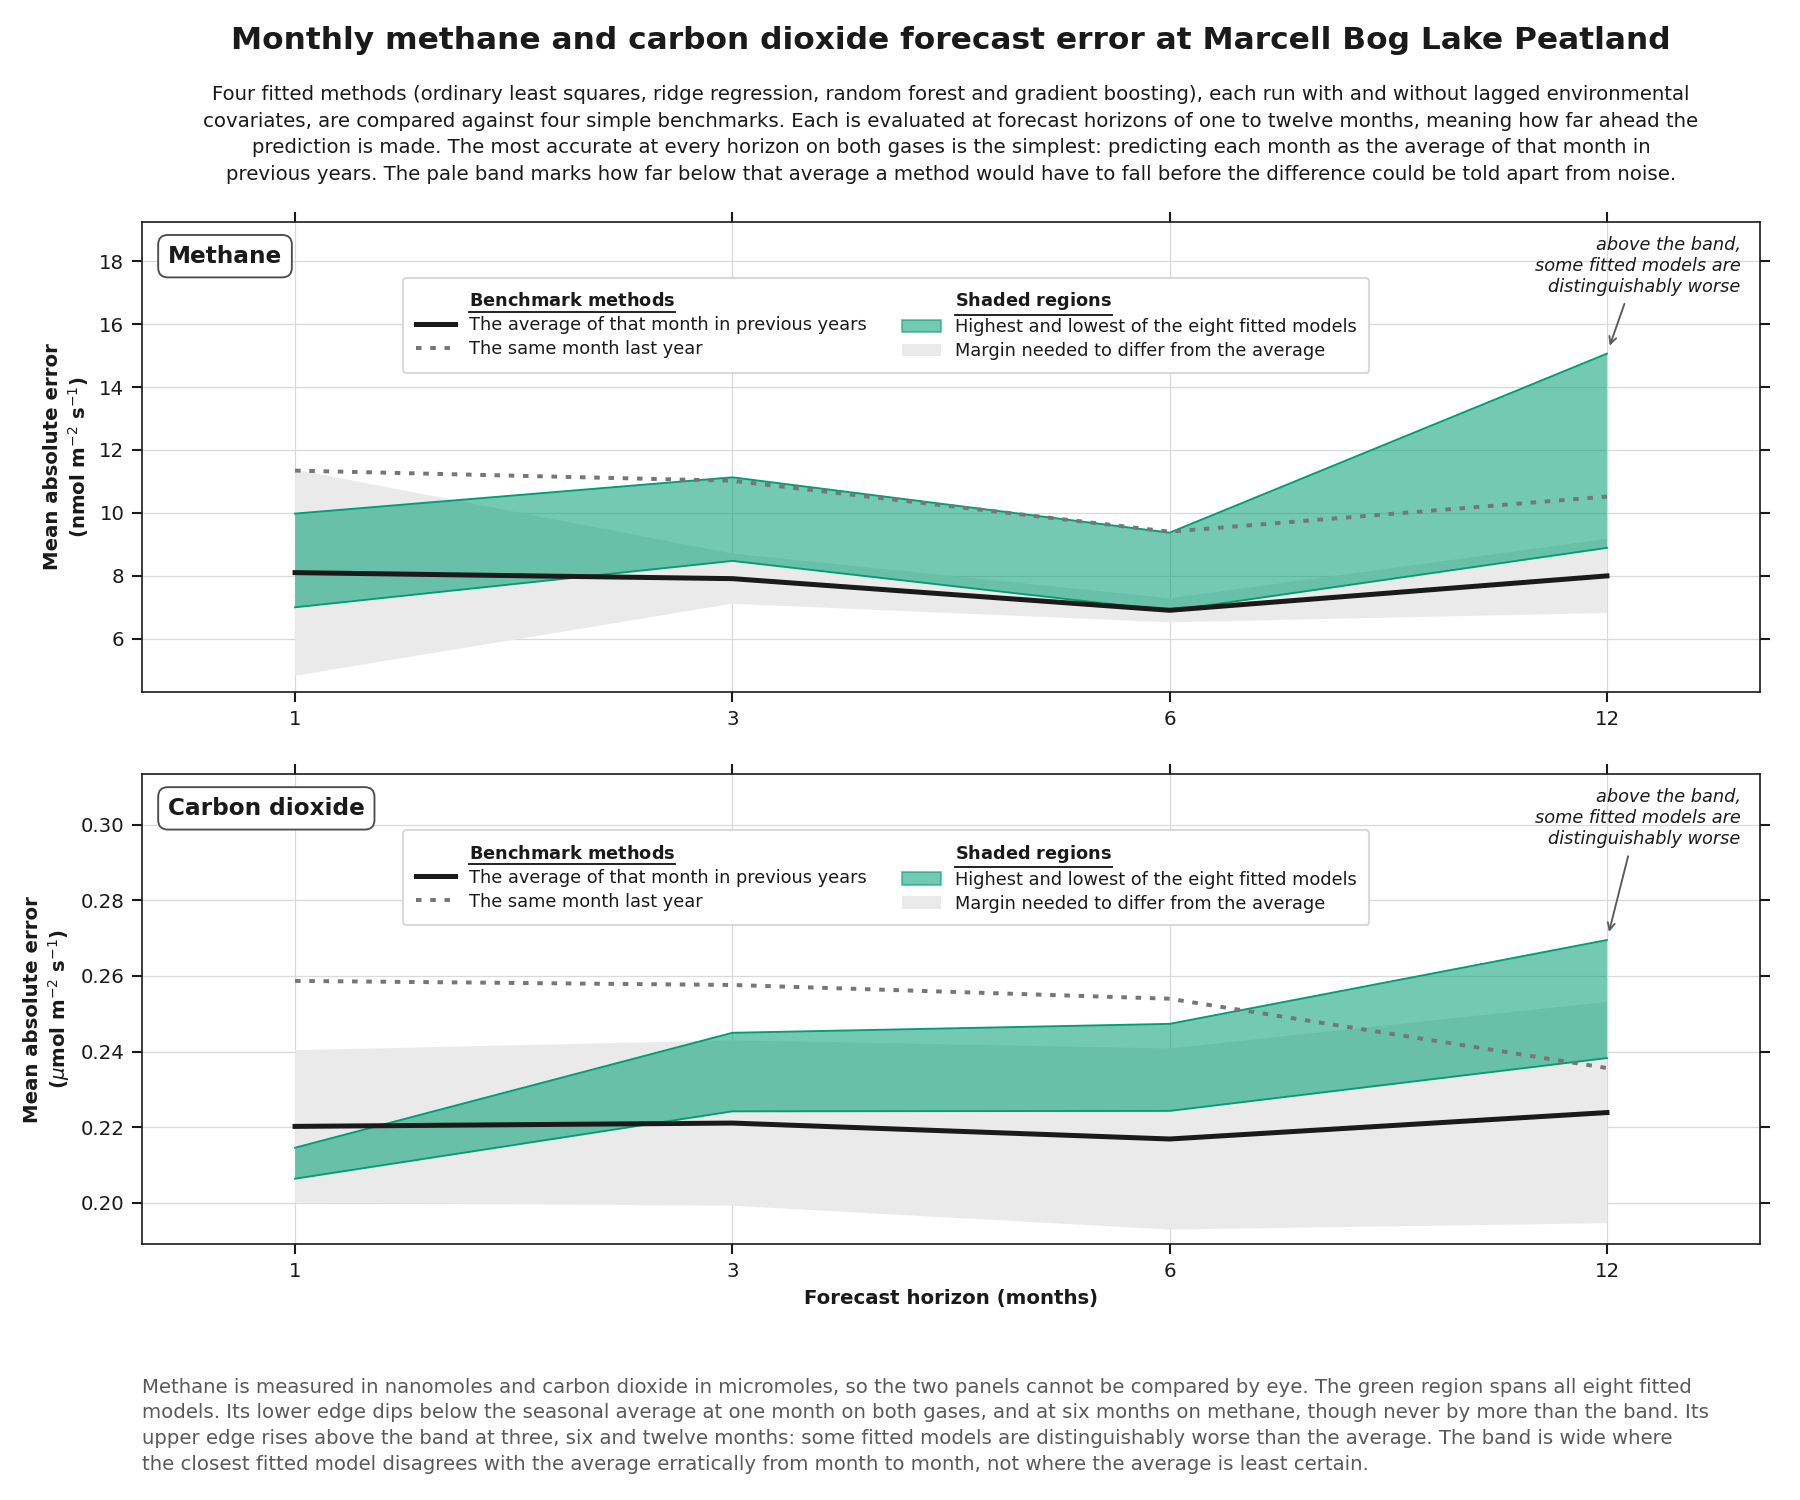
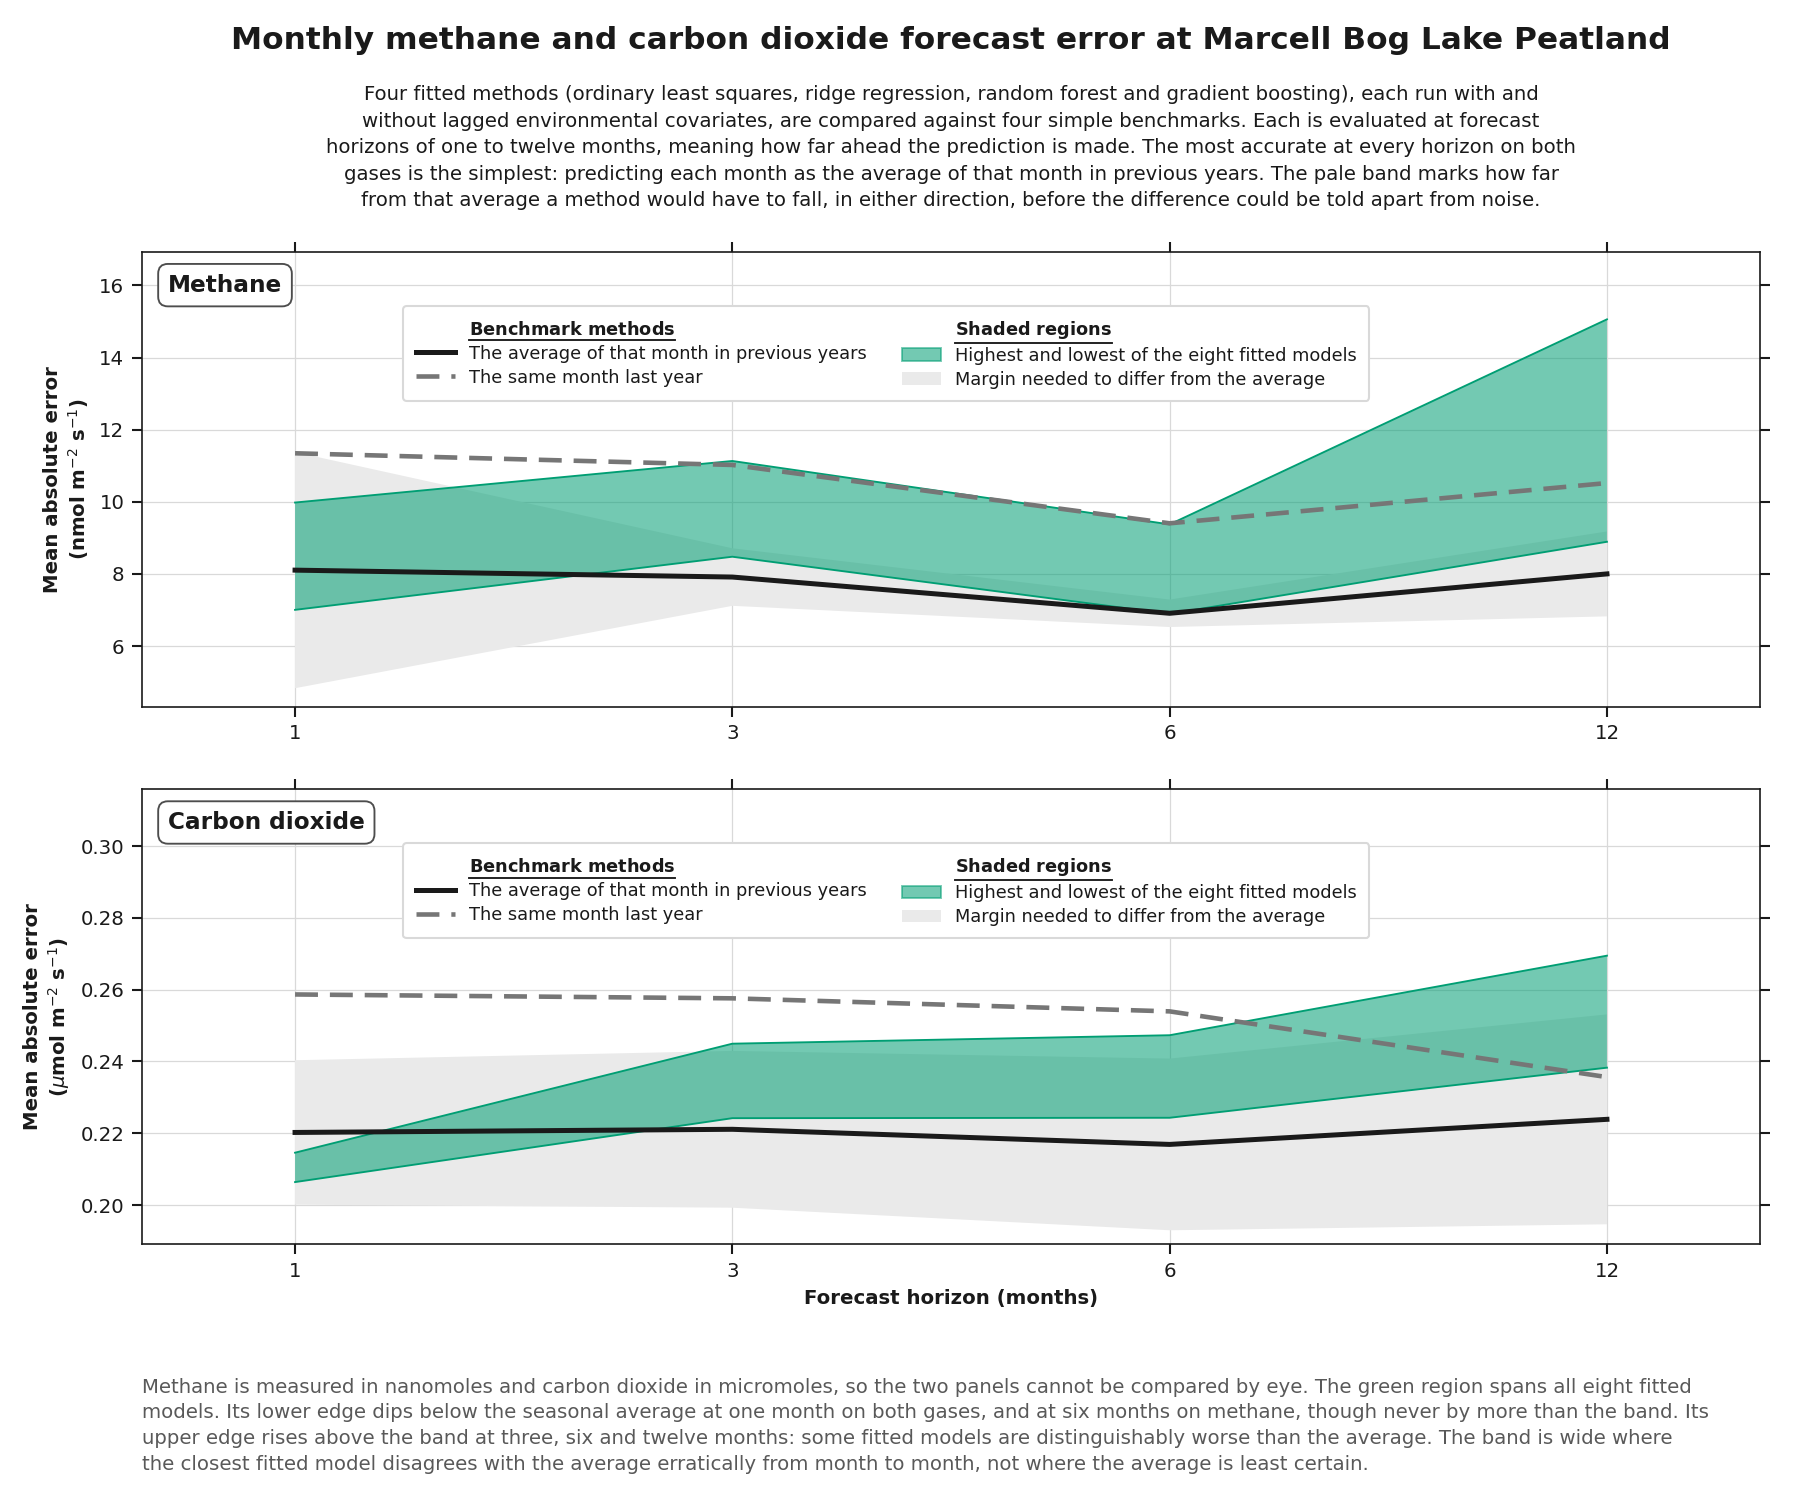
Cut the repeated note, and let the dashed benchmark read over the fill
The note in each panel corner said what the description says in nearly the same
words, and its arrow could only point at one horizon of a finding that holds at
three, so a reader met it twice above the axis and once below. Cutting it also
removes the second requirement from _raise_top_until_furniture_clears, which now
only has to keep the legend clear of the series beneath it.

The dashed benchmark was already drawn above the fill, so order was never the
problem: at #767676 it holds 2.33:1 against the fill, under the 3:1 a graphical
object needs, and a dotted line at 1.4 on 2.2 lays down very little ink to hold
it with. Longer dashes and a little more weight, with the fill's alpha left at
the measured 0.45 that keeps the subject 0.143 darker than the apparatus.

The subtitle said the band marks how far below the average a method must fall.
It is drawn two-sided, and the description uses the upper edge, so a reader told
it was a floor could not make sense of a ceiling.

Every benchmark the study scores now reaches the panel's table, so the table can
answer why two are drawn. Carrying three of four was neither the drawn set nor
the complete one. The test fixture carries all four for the same reason.

The palette note recorded green as two scoped meanings across three figures. It
is four across five: the residual check and the prediction error figure were
added later, and the second is the loosest in the set, where green means the
[…]

diff --git a/src/study/figures.py b/src/study/figures.py
@@ -336,13 +336,25 @@ def reconstruction_series(annual: pd.DataFrame) -> Figure:
 #: each one carries: climatology is the result, so it is heaviest.
 BENCHMARK_STYLE = {
     "climatology": {"color": "#1A1A1A", "linestyle": "-", "linewidth": 2.4},
-    "seasonal naive": {"color": "#767676", "linestyle": (0, (1.4, 2.2)), "linewidth": 1.9},
+    # Longer dashes and a little more weight, because this line crosses the green
+    # fill and at #767676 it holds only 2.33:1 against it, under the 3:1 a
+    # graphical object needs. It already draws above the fill, so order was not
+    # the problem; the fill's alpha stays at the measured 0.45, which is what
+    # keeps the subject 0.143 darker than the apparatus behind it. Ink is the
+    # only lever left, and a dotted line at 1.4 on 2.2 lays down very little.
+    "seasonal naive": {"color": "#767676", "linestyle": (0, (5.0, 2.6)), "linewidth": 2.2},
 }
 
 #: Benchmarks the panel table carries. Drawing is a separate question: the table
 #: keeps every benchmark the study scored, so the subtitle can quote one the
 #: panel does not draw and a test can check that it quotes it correctly.
-PANEL_BENCHMARKS = ("climatology", "seasonal naive", "naive")
+#: Every benchmark the study scores reaches the panel's table, so the table can
+#: answer why two of them are drawn and two are not. `BENCHMARK_STYLE` is the
+#: drawn subset. Carrying three of the four was the older arrangement: `naive`
+#: reached the table and nothing drew it, and `seasonal naive with drift` never
+#: reached it at all, so neither the drawing nor the table was the complete set.
+PANEL_BENCHMARKS = ("climatology", "seasonal naive", "naive",
+                    "seasonal naive with drift")
 
 #: Carrying last month's value forward is scored and reported but not drawn. It
 #: is not a contender, and at twelve months it coincides with the seasonal
@@ -413,9 +425,9 @@ FORECAST_TEXT = ps.FigureText(
         "Each is evaluated at forecast horizons of one to twelve months, meaning "
         "how far ahead the prediction is made. The most accurate at every horizon "
         "on both gases is the simplest: predicting each month as the average of "
-        "that month in previous years. The pale band marks how far below that "
-        "average a method would have to fall before the difference could be told "
-        "apart from noise."
+        "that month in previous years. The pale band marks how far from that "
+        "average a method would have to fall, in either direction, before the "
+        "difference could be told apart from noise."
     ),
     description=(
         "Methane is measured in nanomoles and carbon dioxide in micromoles, so "
@@ -510,33 +522,14 @@ def forecast_error_by_horizon(panels: dict[str, pd.DataFrame]) -> Figure:
         _forecast_legend(ax)
         axes.append(ax)
 
-    # The result in the other direction, on both panels because it holds on both.
-    # Anchored at twelve months, where the envelope's upper edge is highest, and
-    # set into the corner beyond the legend's right edge. Wrapped narrow so it
-    # fits the strip the legend leaves rather than reaching back across it.
-    for ax, (key, _, _) in zip(axes, GAS_PANEL):
-        table = panels[key]
-        last = len(table) - 1
-        ps.annotate(
-            ax,
-            "above the band,\nsome fitted models are\ndistinguishably worse",
-            xy=(float(last), float(table["fitted_high"].iloc[last])),
-            xytext=(0.988, 0.97), textcoords="axes fraction", ha="right", va="top",
-        )
-
-    # Both pieces of furniture are in place, so the axis can be grown to fit them.
+    # No note on the panel. The description says the same thing in nearly the
+    # same words, and an arrow can only point at one horizon of a finding that
+    # holds at three, so a reader met it twice above the axis and once below.
     for ax in axes:
         _raise_top_until_furniture_clears(ax)
         _underline_legend_headings(fig, ax)
     return fig
 
-
-#: Where the annotation's target sits in the panel, as a share of its height.
-#: The note is anchored near the top, so holding its target here leaves a leader
-#: long enough for the arrowhead to read. Set rather than measured: an
-#: Annotation's window extent covers its arrow as well as its text, so sizing the
-#: arrow from that extent is circular and does not converge.
-ANNOTATION_TARGET_SHARE = 0.72
 
 #: Pixels of clear space between the legend and the nearest series beneath it.
 #: In pixels rather than as a share of the data range, which would grow with the
@@ -547,12 +540,11 @@ LEGEND_CLEARANCE_PX = 60
 
 
 def _raise_top_until_furniture_clears(ax, rounds: int = 8) -> None:
-    """Grow the axis upward until the legend clears the series and the leader shows.
+    """Grow the axis upward until the legend clears the series beneath it.
 
-    The legend and the note are both anchored in axes fractions, so raising the
-    top moves the data away from them. Two requirements: the legend keeps a fixed
-    pixel gap above the highest series beneath it, and the note's target sits at a
-    fixed share of the panel height, which is what gives the arrow its length.
+    The legend is anchored in axes fractions, so raising the top moves the data
+    away from it. With the panel note gone there is one requirement left: a fixed
+    pixel gap between the legend and the highest series running under it.
     """
     for _ in range(rounds):
         ax.figure.canvas.draw()
@@ -572,10 +564,6 @@ def _raise_top_until_furniture_clears(ax, rounds: int = 8) -> None:
         share = (legend.y0 - frame.y0 - LEGEND_CLEARANCE_PX) / frame.height
         if highest > -np.inf and share > 0:
             needed = max(needed, (highest - low) / share)
-
-        for note in ax.texts:
-            if "above the band" in note.get_text():
-                needed = max(needed, (note.xy[1] - low) / ANNOTATION_TARGET_SHARE)
 
         if needed <= (high - low) * 1.001:
             return

diff --git a/src/study/plotstyle.py b/src/study/plotstyle.py
@@ -49,16 +49,33 @@ from ingest import paths
 #                    seasonal split what the average year leaves
 #   SITE    #F0E442  the site, and the tower on it
 #
-# `FITTED` carries two scoped meanings, which is the one place this rule bends.
-# On the two forecast figures it is the range across the eight fitted models. On
-# the seasonal split it fills what the average year leaves. The two never appear
-# on one panel and the figures are not adjacent in the set; the alternative was a
-# fifth hue for a row that is one of three on a single figure. Recorded as a
-# deliberate exception rather than an oversight. The scoping exists because the
-# study's halves ask different questions: the reconstruction figures are about
-# support and the forecast figures are about method, so neither set needs the
-# other's encoding.
-# A second blue was tried here and removed, because blue already means retained.
+# `FITTED` is where this rule bends, and it has bent further than it was written
+# to. It now carries four meanings across five figures:
+#
+#   forecast error by horizon        the range across the eight fitted models
+#   measurements used across horizons  how often each measurement was chosen
+#   seasonal cycle                   what the average year leaves
+#   residual distribution check      the 115 months the model was fitted on
+#   prediction error by year         the months of the panel's own year
+#
+# The first three are the original scoping and the reason for it: the study's
+# halves ask different questions, the reconstruction figures being about support
+# and the forecast figures about method, so neither set needs the other's
+# encoding. A second blue was tried on the forecast figures and removed, because
+# blue already means retained. The alternative on the seasonal split was a fifth
+# hue for one row of three on a single figure.
+#
+# The last two were added later and are not covered by that reasoning. The
+# residual check is close to it, since the 115 months are the fitted ones. The
+# prediction error use is the loosest in the set: there green means the year a
+# panel is about, against grey for every other year, which has nothing to do
+# with fitting anything. It is recorded rather than repainted because neither
+# late use collides. Both sit against grey alone, with no blue or orange on the
+# panel, so the scoping still holds on the page even where the sentence naming
+# it no longer describes what is drawn.
+#
+# What this does not license is reaching for green as a general accent. Five
+# figures is where it stops.
 #
 # `SITE` marks the flux tower in the site panel and the same site among the
 # network in the panel beside it. A reader meeting a star in both panels assumes

diff --git a/tests/test_forecast_figure.py b/tests/test_forecast_figure.py
@@ -25,13 +25,15 @@ def frames(seed: int = 0) -> dict[str, pd.DataFrame]:
     months = pd.period_range("2015-01", periods=60, freq="M")
     rows = []
     families = {
-        "benchmarks": ("climatology", "seasonal naive", "naive"),
+        "benchmarks": ("climatology", "seasonal naive", "naive",
+                       "seasonal naive with drift"),
         "autoregressive": ("ridge", "random forest"),
         "exogenous": ("ridge", "random forest"),
     }
     for family, methods in families.items():
         for method in methods:
-            scale = {"climatology": 1.0, "seasonal naive": 1.4, "naive": 1.2}.get(method, 1.1)
+            scale = {"climatology": 1.0, "seasonal naive": 1.4, "naive": 1.2,
+                     "seasonal naive with drift": 1.45}.get(method, 1.1)
             for horizon in HORIZONS:
                 grow = horizon if method == "naive" else 1.0
                 for month in months[:40]:
@@ -68,7 +70,8 @@ def real_panel(gas: str) -> pd.DataFrame:
 def test_one_row_per_horizon_with_the_benchmarks_and_the_fitted_range():
     table = panel()
     assert list(table["horizon"]) == list(HORIZONS)
-    for column in ("climatology", "seasonal naive", "naive", "fitted_low",
+    for column in ("climatology", "seasonal naive", "naive",
+                   "seasonal naive with drift", "fitted_low",
                    "fitted_high", "margin", "effective_n"):
         assert column in table
 
@@ -270,17 +273,16 @@ def test_the_units_caveat_names_the_units():
     assert "nanomole" in said and "micromole" in said
 
 
-def test_the_annotation_target_sits_low_enough_to_show_its_arrow():
+def test_no_panel_repeats_what_the_description_says():
+    """The note that used to sit in each corner said what the description says
+    in nearly the same words, and pointed at one horizon of a finding holding at
+    three, so a reader met it twice above the axis and once below."""
     tables = {key: real_panel(key) for key, _, _ in figures.GAS_PANEL}
     fig = figures.forecast_error_by_horizon(tables)
-    fig.canvas.draw()
     for ax in fig.axes:
-        note = next(a for a in ax.texts if "above the band" in a.get_text())
-        frame = ax.get_window_extent()
-        share = (ax.transData.transform(note.xy)[1] - frame.y0) / frame.height
-        # At or below the share, never above it: the legend's clearance can push
-        # the target lower still, which only lengthens the arrow.
-        assert share <= figures.ANNOTATION_TARGET_SHARE + 0.02
+        drawn = " ".join(a.get_text() for a in ax.texts)
+        assert "above the band" not in drawn, drawn
+    assert "above the band" in figures.FORECAST_TEXT.description
     ps.plt.close(fig)
 
 

diff --git a/notes/study.md b/notes/study.md
@@ -874,6 +874,45 @@ nineteen at the same time: at five, the x axis is compressed enough that the key
 spans half the panel instead of a quarter, which is a different layout from the
 one being checked.
 
+## Which benchmarks the forecast figure draws, and why not the other two
+
+The subtitle says four benchmarks are compared and the panel draws two. A
+proposed sentence would have explained the omission as the other two losing so
+heavily at longer horizons that plotting them would compress everything else.
+That is true of one of them and false of the other, so it was not written.
+
+Mean absolute error, every benchmark, both gases:
+
+| horizon | climatology | seasonal naive | naive | seasonal naive with drift |
+|---|---|---|---|---|
+| methane 1 | 8.11 | 11.35 | 12.21 | 11.38 |
+| methane 3 | 7.91 | 11.02 | **29.23** | 11.13 |
+| methane 6 | 6.91 | 9.40 | **41.42** | 9.57 |
+| methane 12 | 8.00 | 10.52 | 10.52 | 10.65 |
+| carbon dioxide 1 | 0.2202 | 0.2587 | 0.2998 | **0.2586** |
+| carbon dioxide 3 | 0.2211 | 0.2576 | 0.6184 | 0.2587 |
+| carbon dioxide 6 | 0.2169 | 0.2540 | 0.7970 | 0.2573 |
+| carbon dioxide 12 | 0.2239 | 0.2357 | 0.2357 | 0.2448 |
+
+**The drawn pair is not the two most accurate at every horizon**, and it fails
+in two different ways. At twelve months `naive` ties `seasonal naive` exactly on
+both gases, because forecasting twelve months ahead from the last observation
+uses the value twelve months before the target, which is the same month last
+year: the two are the same prediction by construction and the tie is not a
+coincidence. And at one month on carbon dioxide, `seasonal naive with drift`
+beats `seasonal naive` by 0.0001, which is a tie in everything but sorting.
+
+**The two omissions have different reasons.** `naive` does lose heavily, but in
+the middle rather than at the end: 29.2 and 41.4 against a climatology of 7.9
+and 6.9 on methane, 0.618 and 0.797 against 0.221 and 0.217 on carbon dioxide,
+then back to a tie at twelve. Drawing it would compress the comparison, and
+"at longer horizons" is the wrong description of when. `seasonal naive with
+drift` is omitted for the opposite reason: it never leaves `seasonal naive`,
+differing by at most 0.2 on methane and 0.009 on carbon dioxide, so drawing it
+would add a line no reader could separate from one already there.
+
+Any sentence explaining the omission has to carry both reasons or name neither.
+
 ## Three errors the reconstruction figure carried
 
 **The subtitle said the three assumptions give 10 to 30 g C per square meter.**

diff --git a/figures/README_fragments.md b/figures/README_fragments.md
@@ -26,7 +26,7 @@ Each marker is one year's emission in grams of carbon per square meter, from rel
 
 ![Monthly methane and carbon dioxide forecast error at Marcell Bog Lake Peatland](figures/forecast_error_by_horizon.png)
 
-**Four fitted methods (ordinary least squares, ridge regression, random forest and gradient boosting), each run with and without lagged environmental covariates, are compared against four simple benchmarks. Each is evaluated at forecast horizons of one to twelve months, meaning how far ahead the prediction is made. The most accurate at every horizon on both gases is the simplest: predicting each month as the average of that month in previous years. The pale band marks how far below that average a method would have to fall before the difference could be told apart from noise.**
+**Four fitted methods (ordinary least squares, ridge regression, random forest and gradient boosting), each run with and without lagged environmental covariates, are compared against four simple benchmarks. Each is evaluated at forecast horizons of one to twelve months, meaning how far ahead the prediction is made. The most accurate at every horizon on both gases is the simplest: predicting each month as the average of that month in previous years. The pale band marks how far from that average a method would have to fall, in either direction, before the difference could be told apart from noise.**
 
 Methane is measured in nanomoles and carbon dioxide in micromoles, so the two panels cannot be compared by eye. The green region spans all eight fitted models. Its lower edge dips below the seasonal average at one month on both gases, and at six months on methane, though never by more than the band. Its upper edge rises above the band at three, six and twelve months: some fitted models are distinguishably worse than the average. The band is wide where the closest fitted model disagrees with the average erratically from month to month, not where the average is least certain.
 
